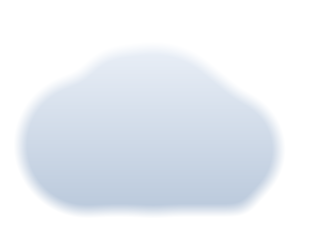
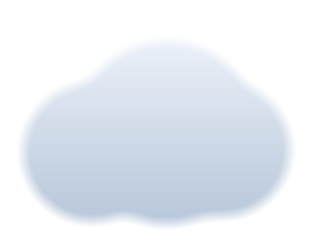
Arrange the documentation art the way the clouds actually fly
A neat row of clouds on a baseline is not what this looks like in use.
docs/make_art.py now replays a real burst and freezes it mid-flight:
clouds are born near the tray, rise at their own speed, drift a little
sideways, and fade as they age, so the picture shows the whole arc at
once - fresh and bright low down, higher and fainter on the way out.

The motion ranges moved out of _Puff into module constants so the art is
built from exactly what the app animates with and cannot quietly drift
from it. The generator is seeded, so regenerating does not churn the repo.

Ages stop short of the very end and opacity has a floor: the last frames
of a real fade are too faint to read as a picture.

Ships three assets. clouds.png is the arrangement on transparency, which
is what you want for placing them elsewhere; cloud.png is a single cloud;
clouds-preview.png puts the same arrangement on a dark ground and is what
the README shows inline, because these clouds are built to read over a
taskbar and are close to invisible on a white page.

Changed region(s): [[0.125, 0.2249, 0.9062, 0.9277]]

diff --git a/docs/make_art.py b/docs/make_art.py
@@ -1,0 +1,93 @@
+"""Regenerate the documentation art from the live renderer.
+
+Rather than lining clouds up in a row, this replays what actually happens above
+the tray: clouds are born near the bottom right, rise at their own speed, drift
+a little sideways, and fade as they age. Freezing that mid-flight gives the
+scattered arrangement you see in use.
+
+Everything comes from puffs.py - the same shapes, the same motion ranges - so
+the art cannot drift from the app. Seeded, so re-running does not churn the repo.
+
+    python docs/make_art.py
+"""
+from __future__ import annotations
+
+import random
+import sys
+from pathlib import Path
+
+from PIL import Image
+
+sys.path.insert(0, str(Path(__file__).resolve().parent.parent))
+import puffs
+
+DOCS = Path(__file__).resolve().parent
+SCALE = 3          # render big, so the PNG stays crisp in a README
+CLOUDS = 10
+SEED = 5
+
+# The slice of desktop the clouds live in: in from the right edge, up from the
+# taskbar, plus room for the oldest ones to have climbed.
+VIRTUAL_W = 300
+VIRTUAL_H = 300
+
+
+def in_flight() -> Image.Image:
+    """One frozen frame of a burst, on transparency."""
+    rng = random.Random(SEED)
+    canvas = Image.new("RGBA", (VIRTUAL_W * SCALE, VIRTUAL_H * SCALE), (0, 0, 0, 0))
+
+    for i in range(CLOUDS):
+        size = rng.randint(*puffs.SIZE_RANGE)
+        alpha0 = rng.uniform(*puffs.ALPHA_RANGE)
+        life = rng.uniform(*puffs.LIFE_RANGE)
+        rise = rng.uniform(*puffs.RISE_RANGE)
+        drift = rng.uniform(*puffs.DRIFT_RANGE)
+        # Spread the ages so the frame catches the whole arc at once: fresh and
+        # bright near the tray, higher and fainter on the way out. Ages stop
+        # short of the very end, and opacity has a floor, because the last few
+        # frames of a real fade are too faint to read as a picture.
+        age = life * (0.05 + 0.62 * (i / max(1, CLOUDS - 1))) * rng.uniform(0.85, 1.1)
+        age = min(age, life * 0.70)
+
+        x = VIRTUAL_W - rng.randint(*puffs.SPAWN_X_BACK) + drift * age
+        y = VIRTUAL_H - rng.randint(*puffs.SPAWN_Y_UP) - rise * age
+        alpha = max(alpha0 * (1.0 - age / life), 0.32)
+
+        random.seed(rng.random())        # vary the lobes per cloud, reproducibly
+        art = puffs._render_cloud(size * SCALE, premultiply=False)
+        faded = art.copy()
+        faded.putalpha(art.split()[3].point(lambda v: int(v * alpha)))
+        canvas.alpha_composite(faded, (int(x * SCALE), int(y * SCALE)))
+
+    return canvas.crop(canvas.getbbox())
+
+
+def on_panel(art: Image.Image, pad: int = 46) -> Image.Image:
+    """The clouds are pale by design - they are meant to read over a dark taskbar.
+    On a white page they all but disappear, so anything shown inline in the docs
+    gets the dark ground they were drawn for. The transparent PNG stays available
+    for anyone who wants to place them somewhere else."""
+    panel = Image.new("RGBA", (art.width + pad * 2, art.height + pad * 2), (16, 18, 22, 255))
+    panel.alpha_composite(art, (pad, pad))
+    return panel
+
+
+def main() -> int:
+    random.seed(SEED)
+    hero = puffs._render_cloud(320, premultiply=False)
+    hero.save(DOCS / "cloud.png")
+    print("cloud.png        ", hero.size)
+
+    art = in_flight()
+    art.save(DOCS / "clouds.png")
+    print("clouds.png       ", art.size, "(transparent)")
+
+    preview = on_panel(art)
+    preview.convert("RGB").save(DOCS / "clouds-preview.png")
+    print("clouds-preview.png", preview.size, "(dark ground, for inline docs)")
+    return 0
+
+
+if __name__ == "__main__":
+    raise SystemExit(main())

diff --git a/puffs.py b/puffs.py
@@ -47,6 +47,16 @@ AC_SRC_ALPHA = 0x01
 ULW_ALPHA = 0x02
 DIB_RGB_COLORS = 0
 
+# The shape of a cloud's life. Hoisted out of _Puff so the documentation art can
+# be built from exactly what the app does, and can never quietly drift from it.
+SIZE_RANGE = (26, 46)          # px wide
+ALPHA_RANGE = (0.55, 0.80)     # opacity at birth
+LIFE_RANGE = (2.9, 4.5)        # seconds
+RISE_RANGE = (26.0, 56.0)      # px/sec upward
+DRIFT_RANGE = (-12.0, 12.0)    # px/sec sideways
+SPAWN_X_BACK = (60, 210)       # px in from the right edge of the work area
+SPAWN_Y_UP = (45, 120)         # px up from the bottom of the work area
+
 FRAME_MS = 16          # ~60fps while animating
 IDLE_MS = 120          # cheap heartbeat while waiting for the next approval
 MAX_LIVE = 40          # hard cap, so a runaway loop can't spawn endless windows
@@ -197,16 +207,16 @@ class _Puff:
         # per-second at the ~33fps the loop actually used to run at. Keep them in
         # seconds and px/sec: a faster, shorter-lived cloud is easy to miss over a
         # remote desktop, where only a fraction of frames ever reach the viewer.
-        self.size = random.randint(26, 46)
-        self.alpha0 = random.uniform(0.55, 0.80)
-        self.life = random.uniform(2.9, 4.5)               # seconds
-        self.rise = random.uniform(26.0, 56.0)             # px/sec
-        self.drift = random.uniform(-12.0, 12.0)           # px/sec
+        self.size = random.randint(*SIZE_RANGE)
+        self.alpha0 = random.uniform(*ALPHA_RANGE)
+        self.life = random.uniform(*LIFE_RANGE)            # seconds
+        self.rise = random.uniform(*RISE_RANGE)            # px/sec
+        self.drift = random.uniform(*DRIFT_RANGE)          # px/sec
         self.born = time.perf_counter()
 
         # Anchor near the tray, with enough spread that a burst never stacks.
-        self.x0 = float(area.right - random.randint(60, 210))
-        self.y0 = float(area.bottom - random.randint(45, 120))
+        self.x0 = float(area.right - random.randint(*SPAWN_X_BACK))
+        self.y0 = float(area.bottom - random.randint(*SPAWN_Y_UP))
         self.x, self.y = self.x0, self.y0
         self.alpha = self.alpha0
         self._shown = (int(self.x0), int(self.y0))

diff --git a/README.md b/README.md
@@ -133,14 +133,19 @@ windows are layered, click-through and non-activating - they never take focus or
 swallow a click. Warnings (burst guard, auto-disarm) still use a real toast,
 because those carry text you need to read.
 
-![The cloud shapes, on transparency](docs/clouds.png)
+![A burst of clouds mid-flight](docs/clouds-preview.png)
 
 Every cloud is generated, never a stored asset: five jittered lobes over a flat
 base, blurred for soft edges, put through a contrast curve so the silhouette
-still reads as a shape, then shaded with a vertical gradient. No two are
-identical. The art above came straight out of the running code -
-`puffs._render_cloud(width, premultiply=False)` returns a straight-alpha PNG
-suitable for documentation, while the app itself uses the premultiplied form.
+still reads as a shape, then shaded with a vertical gradient. No two are alike.
+
+That picture is not a mock-up or a hand-arranged row - `docs/make_art.py` replays
+a real burst and freezes it mid-flight, taking the shapes, spawn positions,
+rise, drift and fade straight from `puffs.py`, so the art cannot drift from the
+app. It is shown on a dark ground because the clouds are built to read over a
+taskbar and would be nearly invisible on a white page; `docs/clouds.png` is the
+same image with a transparent background, and `docs/cloud.png` is a single
+cloud, for reuse elsewhere. Regenerate with `python docs/make_art.py`.
 
 The clouds are drawn as 32-bit bitmaps and handed to the compositor with
 `UpdateLayeredWindow`, not painted by Tk. Colour-keyed transparency can only
